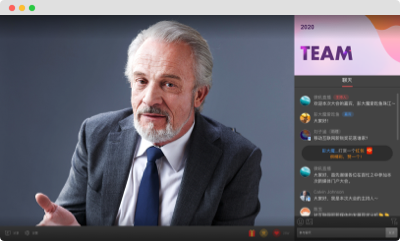
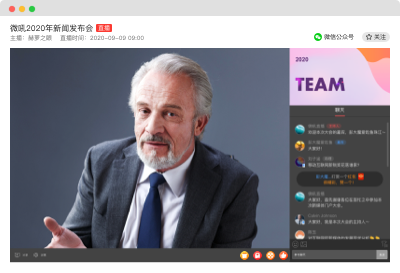
公众号调整

diff --git a/src/views/LiveModule/Brands/officialCard.vue b/src/views/LiveModule/Brands/officialCard.vue
@@ -75,6 +75,7 @@
             <!-- status 控制是否阴影 -->
             <div class="v-preview-content">
                <!-- 公众号 -->
+               <div class="gzh_pc_mask" v-if="!(alertType > 0)"></div>
                <div class="gzh_pc">
                  <img class="gzh_bg_default" src="../../../common/images/poster/pc_yl@2x.png" alt=""/>
                  <!-- 扫码外层 -->
@@ -91,9 +92,10 @@
           </div>
           <!--PC预览,end-->
           <!--手机预览，begin-->
-          <div class="official-app" v-show="switchType === 'app'">
+          <div :class="['official-app', {'show-code': !(alertType > 0)}]" v-show="switchType === 'app'">
             <span class="title">公众号</span>
             <!-- 公众号 -->
+            <div class="gzh_app_mask" v-if="!(alertType > 0)"></div>
             <div class="gzh_app"  v-if="!(alertType > 0)">
               <div class="gzh_img_layout">
                 <div class="img-code v-code-preview app-preview">
@@ -101,7 +103,8 @@
                   <img src="../../../common/images/sys/default_code.jpeg" v-if="!domain_url && !(alertType > 0)"/>
                 </div>
               </div>
-              <p class="gzh_txt">扫码关注公众号</p>
+              <!-- 非默认图，有文字
+              <p class="gzh_txt" v-if="domain_url">扫码关注公众号</p> -->
             </div>
           </div>
           <!--手机预览,end-->
@@ -437,8 +440,9 @@ export default {
         color: #999;
       }
       /deep/.el-form-item{
+        margin-bottom: 32px;
         &:last-child{
-          padding-top: 14px;
+          padding-top: 8px;
         }
       }
     }
@@ -446,7 +450,7 @@ export default {
       position: relative;
       img {
         width: 400px;
-        height: 242px;
+        height: 274px;
         display: block;
         margin: 24px auto 0;
       }
@@ -486,11 +490,23 @@ export default {
         }
       } */
 
+      .gzh_pc_mask {
+        position: absolute;
+        display: block;
+        margin: 0;
+        right: 0;
+        top: 14px;
+        text-align: center;
+        width: 400px;
+        height: 250px;
+        background: #000000;
+        opacity: 0.6;
+      }
       .gzh_img_layout {
         position: absolute;
         display: block;
         margin: 0;
-        top: 63px;
+        top: 69px;
         right: calc(50% - 62px);
         width: 124px;
         height: 138px;
@@ -501,7 +517,7 @@ export default {
       p {
         text-align: right;
         .saasicon_close {
-          font-size: 8px;
+          font-size: 5px;
           margin-right: 5px;
           margin-top: 5px;
         }
@@ -528,11 +544,11 @@ export default {
     .official-app{
       width: 326px;
       height: 631px;
-      background-image: url('../../../common/images/official/phone-model.png');
+      background-image: url('../../../common/images/poster/phone_yl_1@2x.png');
       background-size: 100%;
       background-position: center;
-      &.null-page {
-        background-image: url('../../../common/images/official/phone-model.png');
+      &.show-code {
+        background-image: url('../../../common/images/poster/phone_yl@2x.png');
       }
       background-size: cover;
       margin-top: -24px;
@@ -543,7 +559,9 @@ export default {
         height: 30px;
         line-height: 30px;
         text-align: center;
-        color: #555;
+        font-size: 16px;
+        font-weight: 400;
+        color: #666666;
         background: #f7f7f7;
         position: absolute;
         top: 38px;
@@ -602,17 +620,35 @@ export default {
         right: 20px;
         top: 90px;
       }
-
-
+      .gzh_app_mask {
+        position: absolute;
+        display: block;
+        margin: 0;
+       /*  right: calc(50% - 155px);
+        top: 56px;
+        text-align: center;
+        width: 310px;
+        height: 566px; */
+        right: calc(50% - 143px);
+        top: 75px;
+        text-align: center;
+        width: 286px;
+        height: 522px;
+        background: #000000;
+        border-radius: 0px 0px 26px 26px;
+        opacity: 0.6;
+      }
       .gzh_app {
         position: absolute;
         display: block;
         margin: 0;
         right: calc(50% - 81px);
-        top: calc(50% - 95px);
         text-align: center;
         width: 162px;
-        height: 191px;
+        /* top: calc(50% - 95px);
+        height: 191px; */
+        top: calc(50% - 81px);
+        height: 162px;
         background: transparent;
         border-radius: 4px;
       }

diff --git a/src/views/AccountModule/components/sonList.vue b/src/views/AccountModule/components/sonList.vue
@@ -82,7 +82,7 @@
           <VhallInput type="text" placeholder="请输入账号昵称，不输入默认使用账号ID" autocomplete="off" v-model="sonForm.nick_name" :maxlength="30" show-word-limit></VhallInput>
         </el-form-item>
         <el-form-item label="预设密码" prop="password" v-if="sonDialog.type === 'add'">
-          <VhallInput type="password" v-model.trim="sonForm.password" auto-complete="off" placeholder="支持数字，大小写英文，最多输入30个字符"
+          <VhallInput :type="pwdType" v-model.trim="sonForm.password" auto-complete="off" placeholder="支持数字，大小写英文，最多输入30个字符"
                     :maxlength="30" :minlength="6" show-word-limit></VhallInput>
         </el-form-item>
         <el-form-item label="预设密码" prop="editPwd" v-else>
@@ -168,7 +168,7 @@ export default {
       }
     };
     return {
-      pwdreadOnly: true,
+      pwdType: 'text',
       loading: false,
       query: {
         role_id: '',
@@ -607,6 +607,12 @@ export default {
     },
     emailPlaceholder() {
       return this.sonForm.email ? '' : '子账号登录后自行操作绑定，父账号允许重置';
+    }
+  },
+  watch: {
+    'sonForm.password': function() {
+      let len = this.sonForm.password.length;
+      console.log(len)
     }
   }
 };

diff --git a/src/common/css/common.less b/src/common/css/common.less
@@ -1115,7 +1115,7 @@ button.el-button.el-button--white-primary {
     color: #666666;
     cursor: pointer;
     margin-left: -1px;
-    margin-top: -2px;
+    margin-top: -1px;
 
     &:last-child {
       margin-left: 1px;
